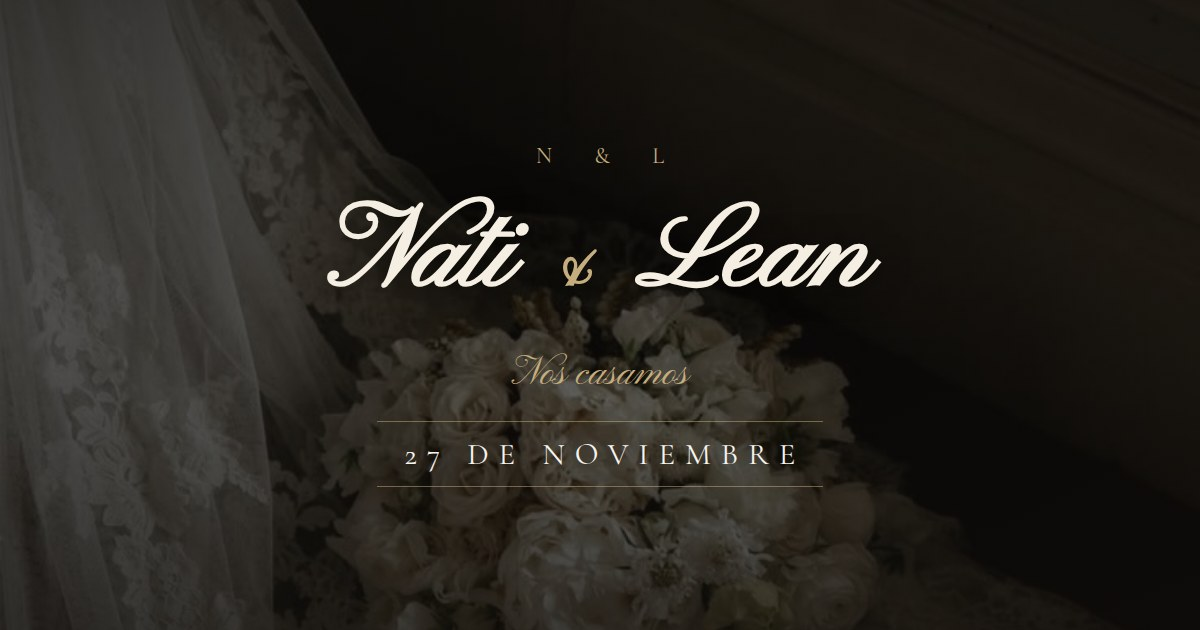
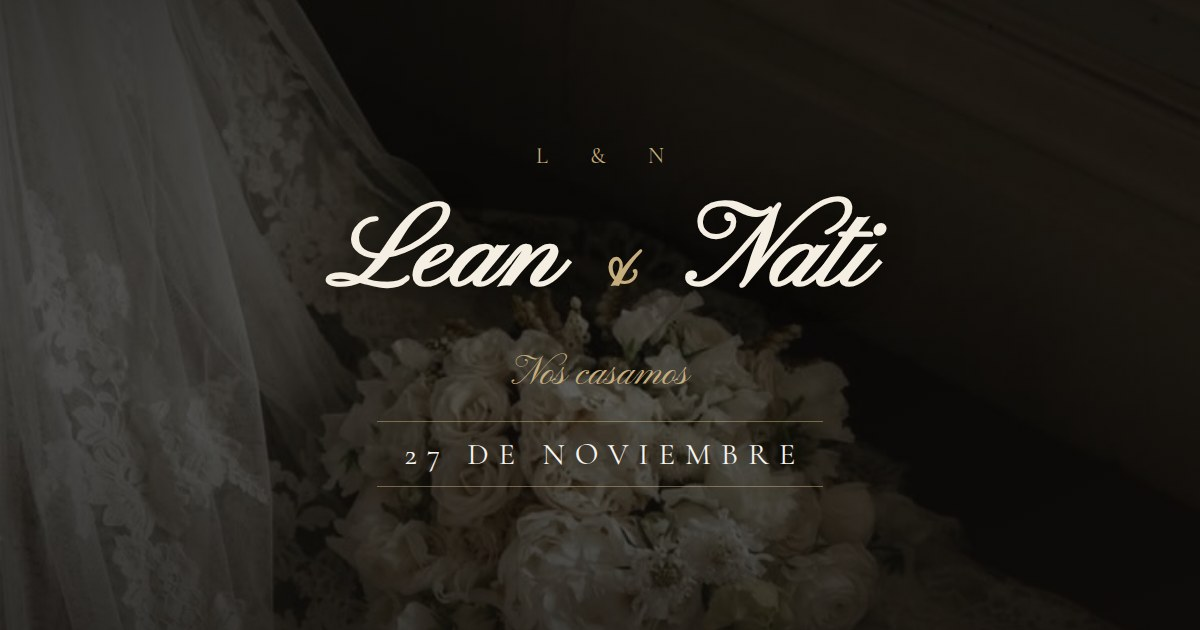
Invertir el orden de los nombres: Lean & Nati
El cambio alcanza todo el sitio, no sólo la portada: el monograma del
sobre, el sello de lacre, el preloader, la carta que asoma, los sellos
de la ceremonia y la confirmación, la marca de fondo del versículo, la
firma del cierre y el favicon pasan de N&L a L&N.

- Los mensajes de WhatsApp (confirmación y sugerencia de canciones)
  nombran ahora la boda de Lean & Nati
- La tarjeta de vista previa que se ve al compartir el link se regenera
  con el nuevo orden
- Las dos tarjetas de alias se reordenan para seguir el mismo criterio:
  primero Lean, después Nati
- Título, autor, OpenGraph, datos estructurados y manifest actualizados

Claude-Session: https://claude.ai/code/session_01XzAow8XpVVysShACWkEjSZ

Changed region(s): [[0.2775, 0.3016, 0.74, 0.4825], [0.4933, 0.2413, 0.555, 0.2714]]

diff --git a/index.html b/index.html
@@ -2,23 +2,23 @@
 <html lang="es" class="sin-js">
 <head>
   <!-- ============================================================
-       NATI & LEAN — Invitación de Boda
+       LEAN & NATI — Invitación de Boda
        27 · 11 · 2026 — Finca La Josefina, Berisso
        ============================================================ -->
   <meta charset="UTF-8">
   <meta name="viewport" content="width=device-width, initial-scale=1.0, viewport-fit=cover">
 
   <!-- ——— SEO ——— -->
-  <title>Nati &amp; Lean — Nos Casamos · 27 de Noviembre</title>
+  <title>Lean &amp; Nati — Nos Casamos · 27 de Noviembre</title>
   <meta name="description" content="Con inmensa alegría te invitamos a celebrar nuestra boda. 27 de noviembre · Finca La Josefina, Berisso. Confirmá tu asistencia.">
-  <meta name="author" content="Nati & Lean">
+  <meta name="author" content="Lean & Nati">
   <meta name="robots" content="index, follow">
   <meta name="theme-color" content="#FBF8F3">
   <link rel="canonical" href="https://natalia-vergara.github.io/boda/">
 
   <!-- ——— OpenGraph ——— -->
   <meta property="og:type" content="website">
-  <meta property="og:title" content="Nati & Lean — ¡Nos Casamos!">
+  <meta property="og:title" content="Lean & Nati — ¡Nos Casamos!">
   <meta property="og:description" content="27 de noviembre · Finca La Josefina, Berisso. Te esperamos para celebrar juntos.">
   <meta name="twitter:image" content="https://natalia-vergara.github.io/boda/assets/images/og-cover.jpg">
   <meta property="og:image" content="https://natalia-vergara.github.io/boda/assets/images/og-cover.jpg">
@@ -46,7 +46,7 @@
   {
     "@context": "https://schema.org",
     "@type": "Event",
-    "name": "Boda de Nati & Lean",
+    "name": "Boda de Lean & Nati",
     "startDate": "2026-11-27T18:30:00-03:00",
     "eventStatus": "https://schema.org/EventScheduled",
     "location": {
@@ -68,7 +68,7 @@
       <svg class="preloader__anillo" viewBox="0 0 120 120" fill="none">
         <circle cx="60" cy="60" r="56" stroke="currentColor" stroke-width="0.75"/>
       </svg>
-      <span class="preloader__letras">N<i>&amp;</i>L</span>
+      <span class="preloader__letras">L<i>&amp;</i>N</span>
     </div>
     <span class="preloader__linea"></span>
   </div>
@@ -111,7 +111,7 @@
       <div class="escena__fondo" aria-hidden="true"></div>
 
       <div class="escena__interior">
-        <p class="escena__monograma" aria-hidden="true">N <span>&amp;</span> L</p>
+        <p class="escena__monograma" aria-hidden="true">L <span>&amp;</span> N</p>
 
         <div class="sobre" id="sobre">
           <span class="sobre__bolsillo" aria-hidden="true"></span>
@@ -120,7 +120,7 @@
           <!-- Carta con borde de puntilla que asoma al abrir -->
           <span class="sobre__carta" aria-hidden="true">
             <span class="sobre__puntilla"></span>
-            <i>Nati &amp; Lean</i>
+            <i>Lean &amp; Nati</i>
             <em>27 · 11 · 2026</em>
           </span>
           <span class="sobre__solapa" aria-hidden="true"></span>
@@ -147,7 +147,7 @@
                 <ellipse cx="59" cy="33" rx="6" ry="11"/>
                 <ellipse cx="41" cy="41" rx="8" ry="8"/>
               </g>
-              <text x="60" y="67" text-anchor="middle" class="sobre__sello-letras">N&amp;L</text>
+              <text x="60" y="67" text-anchor="middle" class="sobre__sello-letras">L&amp;N</text>
               <defs>
                 <radialGradient id="lacreLuz" cx="0.35" cy="0.28" r="0.95">
                   <stop offset="0" stop-color="rgba(255,255,255,0.3)"/>
@@ -176,8 +176,8 @@
       <div class="hero__fondo" aria-hidden="true"></div>
 
       <div class="hero__contenido">
-        <p class="hero__iniciales" id="heroIniciales" aria-hidden="true">N <span>&amp;</span> L</p>
-        <h1 class="hero__nombres" id="heroNombres">Nati <span class="amp">&amp;</span> Lean</h1>
+        <p class="hero__iniciales" id="heroIniciales" aria-hidden="true">L <span>&amp;</span> N</p>
+        <h1 class="hero__nombres" id="heroNombres">Lean <span class="amp">&amp;</span> Nati</h1>
 
         <p class="hero__promesa" id="heroPromesa">
           Descubrimos que amar es elegirnos cada día. Y con Dios guiando nuestro
@@ -261,7 +261,7 @@
         <article class="tarjeta-vidrio ceremonia__tarjeta" data-anim="zoom">
           <svg class="tarjeta-vidrio__sello" viewBox="0 0 60 60" fill="none" aria-hidden="true">
             <circle cx="30" cy="30" r="28" stroke="currentColor" stroke-width="0.8"/>
-            <text x="30" y="37" text-anchor="middle" class="tarjeta-vidrio__sello-texto">N&amp;L</text>
+            <text x="30" y="37" text-anchor="middle" class="tarjeta-vidrio__sello-texto">L&amp;N</text>
           </svg>
 
           <div class="ceremonia__dato">
@@ -415,18 +415,18 @@
 
         <div class="regalos__grilla">
           <div class="regalos__alias" data-anim="zoom">
-            <span class="regalos__alias-rotulo">Alias de Nati</span>
-            <span class="regalos__alias-valor">nati.vergara.mp</span>
-            <button class="boton boton--vino" data-alias="nati.vergara.mp" data-cursor="hover">
+            <span class="regalos__alias-rotulo">Alias de Lean</span>
+            <span class="regalos__alias-valor">lea.ramos</span>
+            <button class="boton boton--vino" data-alias="lea.ramos" data-cursor="hover">
               <span class="boton__texto">Copiar Alias</span>
               <span class="boton__brillo" aria-hidden="true"></span>
             </button>
           </div>
 
           <div class="regalos__alias" data-anim="zoom" data-anim-delay="0.15">
-            <span class="regalos__alias-rotulo">Alias de Lean</span>
-            <span class="regalos__alias-valor">lea.ramos</span>
-            <button class="boton boton--vino" data-alias="lea.ramos" data-cursor="hover">
+            <span class="regalos__alias-rotulo">Alias de Nati</span>
+            <span class="regalos__alias-valor">nati.vergara.mp</span>
+            <button class="boton boton--vino" data-alias="nati.vergara.mp" data-cursor="hover">
               <span class="boton__texto">Copiar Alias</span>
               <span class="boton__brillo" aria-hidden="true"></span>
             </button>
@@ -471,7 +471,7 @@
     <section class="versiculo seccion seccion--oscura" id="versiculo">
       <!-- Fondo fotográfico: colocar la foto en assets/images/fondos/versiculo.jpg -->
       <div class="versiculo__fondo" aria-hidden="true"></div>
-      <span class="versiculo__marca" aria-hidden="true" data-parallax="0.15">N&amp;L</span>
+      <span class="versiculo__marca" aria-hidden="true" data-parallax="0.15">L&amp;N</span>
       <div class="contenedor contenedor--angosto">
         <svg class="florituras florituras--clara" viewBox="0 0 160 60" fill="none" aria-hidden="true" data-anim="dibujo">
           <path class="trazo" d="M20 30 H62 M98 30 H140 M80 14 l7 16 -7 16 -7 -16 7 -16 Z" stroke="currentColor" stroke-width="0.9" stroke-linejoin="round"/>
@@ -544,7 +544,7 @@
         <svg class="rsvp__sello" viewBox="0 0 90 90" fill="none" aria-hidden="true" data-anim="dibujo">
           <circle class="trazo" cx="45" cy="45" r="42" stroke="currentColor" stroke-width="0.8"/>
           <circle class="trazo" cx="45" cy="45" r="35" stroke="currentColor" stroke-width="0.6" stroke-dasharray="2 4"/>
-          <text x="45" y="52" text-anchor="middle" class="rsvp__sello-texto">N&amp;L</text>
+          <text x="45" y="52" text-anchor="middle" class="rsvp__sello-texto">L&amp;N</text>
         </svg>
 
         <p class="etiqueta" data-anim="fade-up">Tu lugar te espera</p>
@@ -560,7 +560,7 @@
         </p>
 
         <a class="boton boton--vino rsvp__whatsapp" id="btnWhatsapp" data-anim="zoom" data-anim-delay="0.25"
-           href="https://wa.me/542215864142?text=Hola!%20Quiero%20confirmar%20mi%20asistencia%20a%20la%20boda%20de%20Nati%20%26%20Lean%20%F0%9F%8E%89"
+           href="https://wa.me/542215864142?text=Hola!%20Quiero%20confirmar%20mi%20asistencia%20a%20la%20boda%20de%20Lean%20%26%20Nati%20%F0%9F%8E%89"
            target="_blank" rel="noopener" data-cursor="hover">
           <span class="boton__texto">Confirmar aquí</span>
           <span class="boton__brillo" aria-hidden="true"></span>
@@ -591,7 +591,7 @@
       <!-- Fondo fotográfico: colocar la foto en assets/images/fondos/cierre.jpg -->
       <div class="cierre__fondo" aria-hidden="true"></div>
       <div class="contenedor contenedor--angosto">
-        <p class="cierre__iniciales" data-anim="fade-up" aria-hidden="true">N <span>&amp;</span> L</p>
+        <p class="cierre__iniciales" data-anim="fade-up" aria-hidden="true">L <span>&amp;</span> N</p>
         <p class="parrafo parrafo--claro" data-anim="fade-up" data-anim-delay="0.15">
           Gracias por ser parte de nuestra historia.
         </p>
@@ -599,7 +599,7 @@
           Nos sentimos profundamente felices de compartir este día con personas
           tan importantes para nosotros.
         </p>
-        <p class="cierre__firma" data-anim="fade-up" data-anim-delay="0.4">Con cariño,<br><strong>Nati &amp; Lean</strong></p>
+        <p class="cierre__firma" data-anim="fade-up" data-anim-delay="0.4">Con cariño,<br><strong>Lean &amp; Nati</strong></p>
         <span class="cierre__fecha" data-anim="fade-up" data-anim-delay="0.5">27 · 11 · 2026</span>
         <p class="cierre__credito">Invitación digital hecha con amor</p>
       </div>

diff --git a/script.js b/script.js
@@ -1,5 +1,5 @@
 /* ============================================================
-   NATI & LEAN — Invitación de Boda
+   LEAN & NATI — Invitación de Boda
    JavaScript Vanilla + GSAP + Lenis
    ------------------------------------------------------------
    Índice
@@ -260,7 +260,7 @@ function iniciarInvitado() {
   rsvpPases.innerHTML = `Tu invitación es válida por <strong>${textoPases}</strong>.`;
   rsvpPases.hidden = false;
 
-  const mensaje = `Hola! Soy ${invitado.nombre}. Quiero confirmar mi asistencia a la boda de Nati & Lean 🎉 (${textoPases})`;
+  const mensaje = `Hola! Soy ${invitado.nombre}. Quiero confirmar mi asistencia a la boda de Lean & Nati 🎉 (${textoPases})`;
   $('#btnWhatsapp').href = `https://wa.me/542215864142?text=${encodeURIComponent(mensaje)}`;
 }
 
@@ -472,7 +472,7 @@ function iniciarCanciones() {
 
   const invitado = window.__invitado;
   const quien = invitado ? `Soy ${invitado.nombre}. ` : '';
-  const mensaje = `Hola! ${quien}Esta canción no puede faltar en la fiesta de Nati & Lean 🎶: `;
+  const mensaje = `Hola! ${quien}Esta canción no puede faltar en la fiesta de Lean & Nati 🎶: `;
   boton.href = `https://wa.me/${CONFIG.whatsapp}?text=${encodeURIComponent(mensaje)}`;
 }
 

diff --git a/style.css b/style.css
@@ -1,5 +1,5 @@
 /* ============================================================
-   NATI & LEAN — Invitación de Boda
+   LEAN & NATI — Invitación de Boda
    Sistema de diseño · CSS3 moderno
    ------------------------------------------------------------
    Estética: papel claro, serif espaciada en mayúsculas,

diff --git a/README.md b/README.md
@@ -1,4 +1,4 @@
-# Nati & Lean — Invitación de Boda 💍
+# Lean & Nati — Invitación de Boda 💍
 
 Invitación digital de lujo, completamente responsive (mobile-first), construida con **HTML5, CSS3 y JavaScript Vanilla** + **GSAP** y **Lenis** para las animaciones y el scroll suave. Sin frameworks pesados.
 
@@ -24,7 +24,7 @@ sin código ve la invitación genérica («Estás cordialmente invitado»).
 ## Secciones
 
 0. **Sobre** — a pantalla completa, con textura de papel y sello de lacre; muestra el nombre del invitado y se abre al tocar el sello (la carta asoma y aparece la portada).
-1. **Portada** — animación de entrada (N & L → Nati & Lean), promesa, «Nos casamos» y cuenta regresiva en tiempo real hasta el 27/11/2026.
+1. **Portada** — animación de entrada (L & N → Lean & Nati), promesa, «Nos casamos» y cuenta regresiva en tiempo real hasta el 27/11/2026.
 2. **Con inmensa alegría** — bienvenida.
 3. **Ceremonia & Celebración** — dirección completa, horarios (18:15 llegada / 18:30 puntual), botones **Ver mapa** (Google Maps) y **Fotos del lugar** (Instagram `@fincalajosefinaeventos`), más preview visual de la finca.
 4. **Dress code** — Formal, con los 5 colores a evitar (blanco, crema, beige, nude y bordó).
@@ -115,4 +115,4 @@ python3 -m http.server 8080
 
 ## Créditos
 
-Diseño y desarrollo a medida para Nati & Lean. Paleta inspirada en su moodboard: bordó profundo, vino, marfil, champagne y dorado — el bordó de las damas de honor como acento principal.
+Diseño y desarrollo a medida para Lean & Nati. Paleta inspirada en su moodboard: bordó profundo, vino, marfil, champagne y dorado — el bordó de las damas de honor como acento principal.
